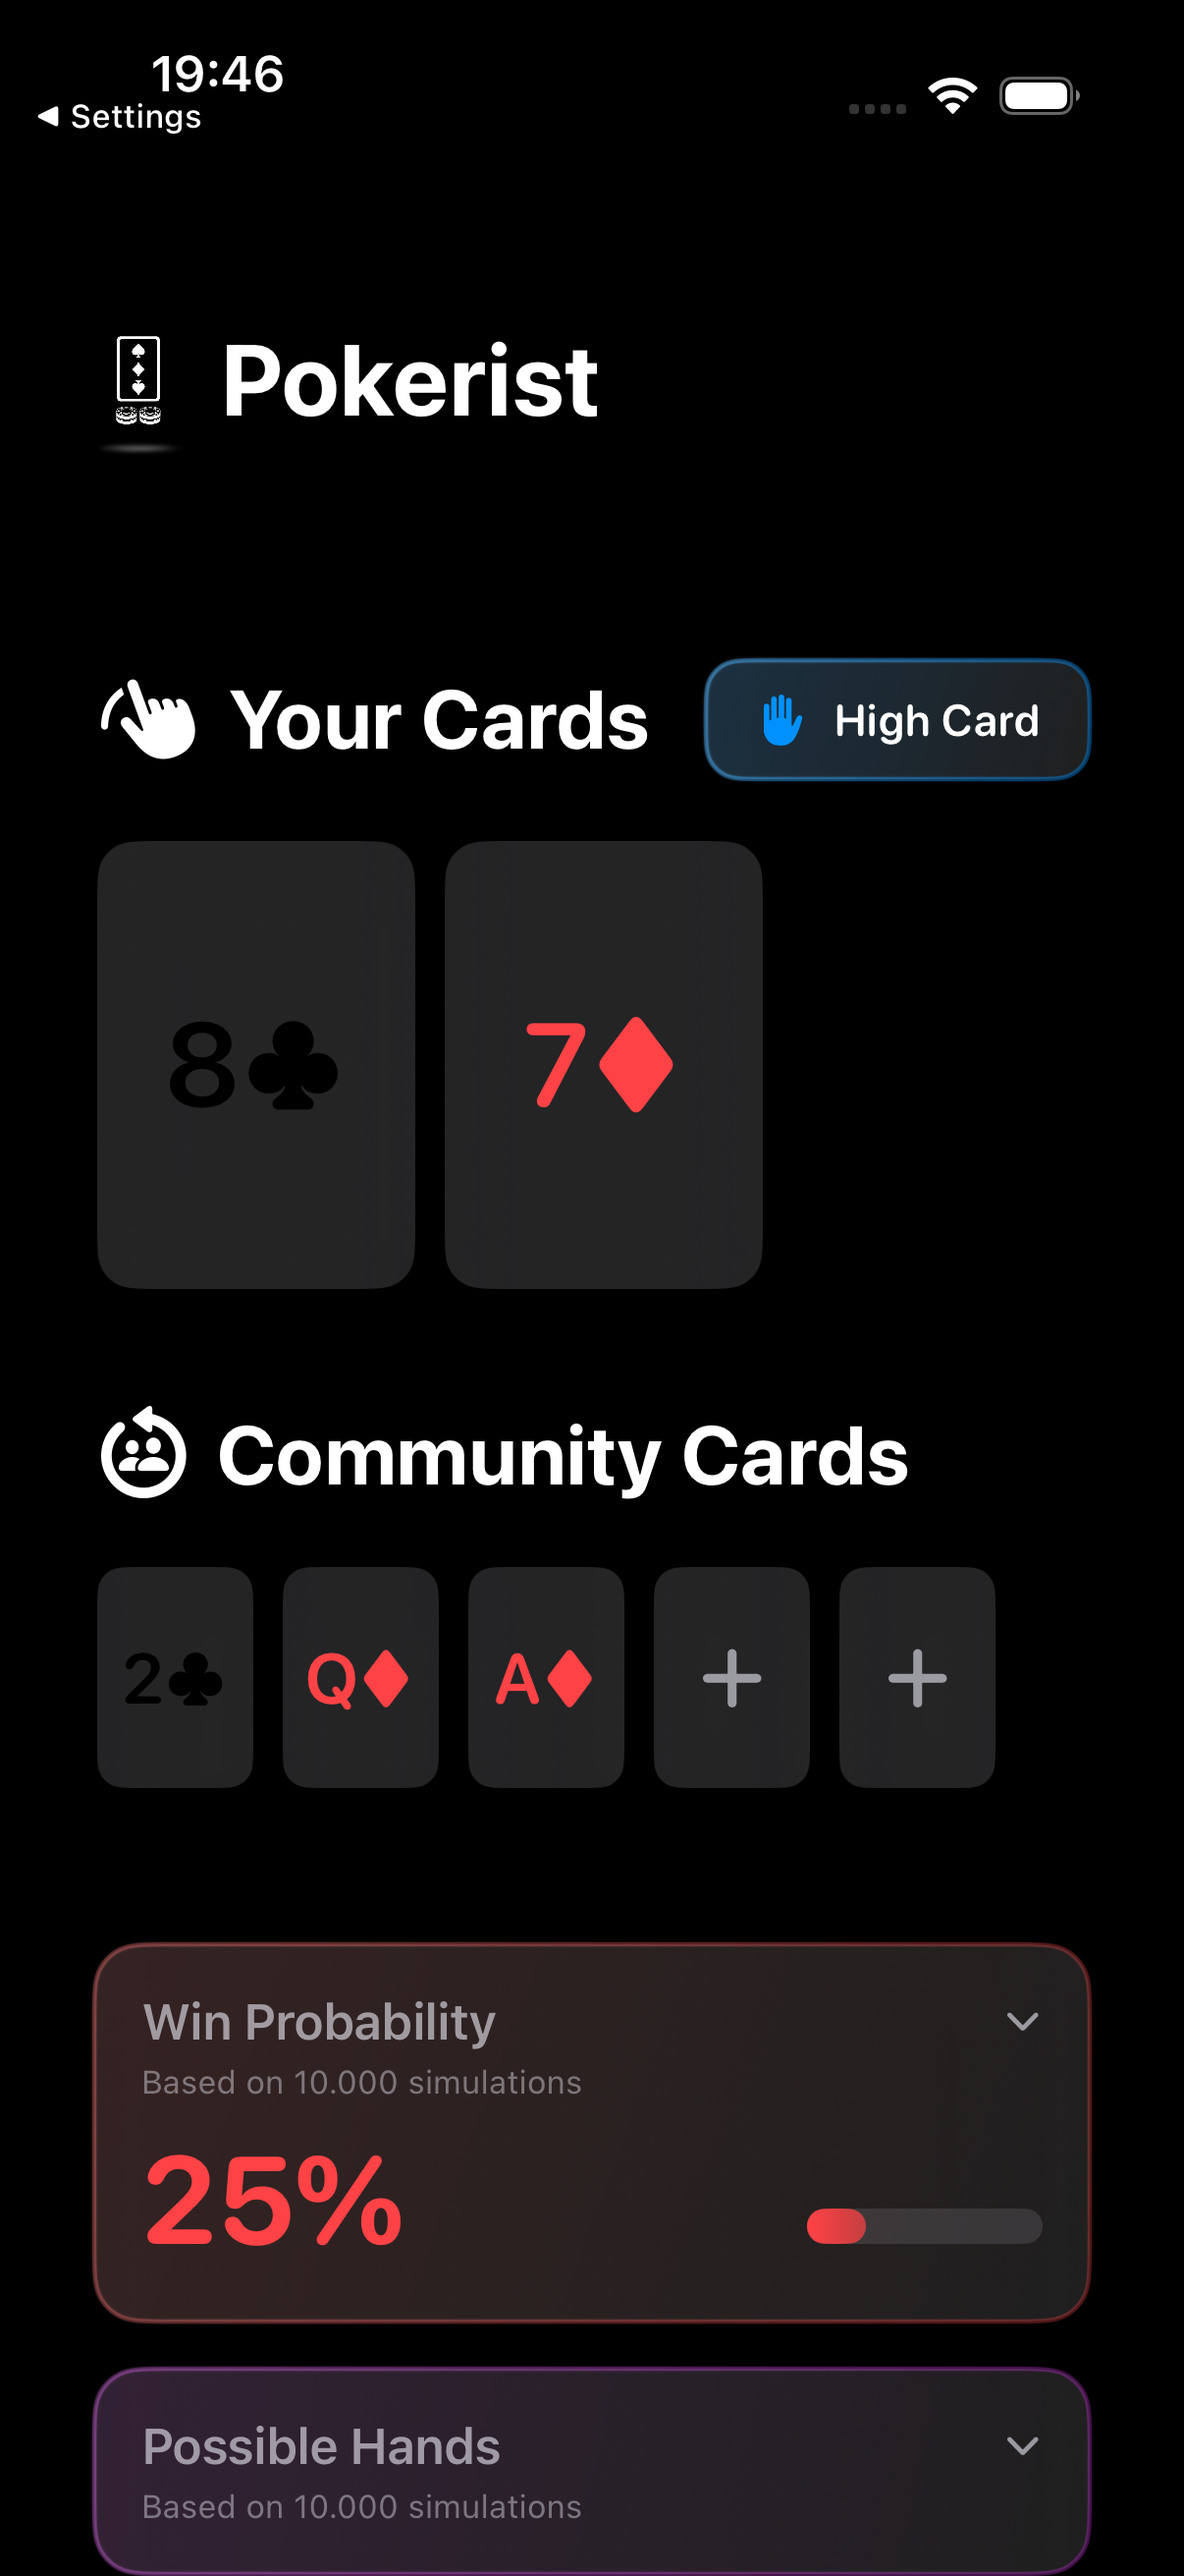
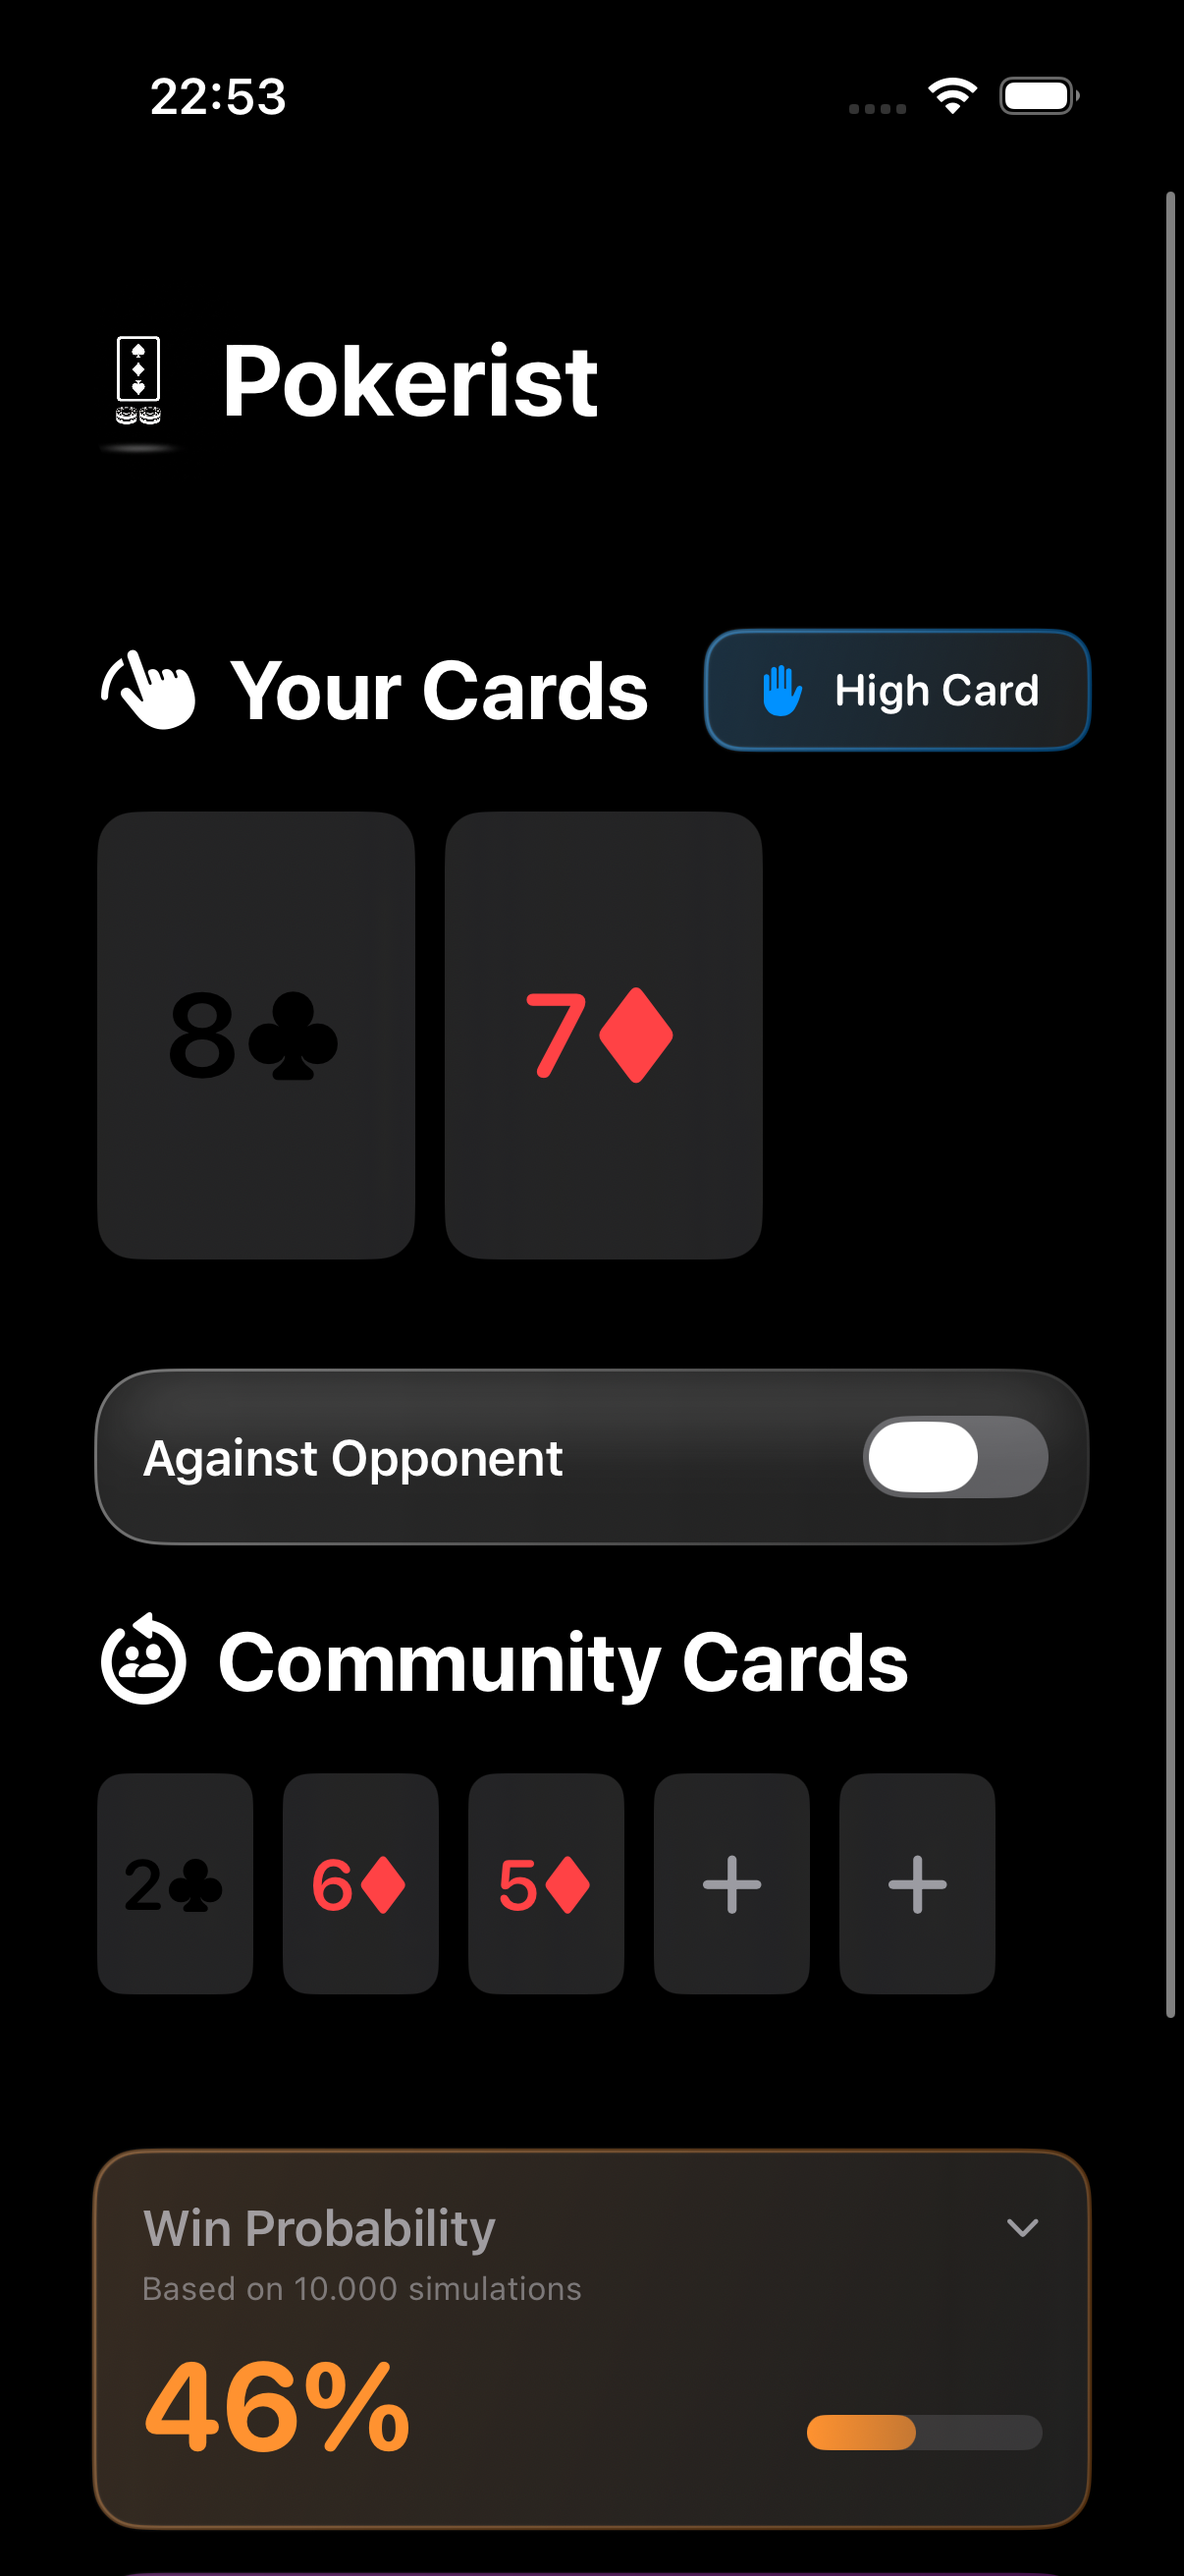
some bug fixes and new photos with new readme file

diff --git a/Pokerist/Models/GameState.swift b/Pokerist/Models/GameState.swift
@@ -22,13 +22,13 @@ import Observation
 @Observable
 class GameState {
     // MARK: - State
-    var playerCards: [PlayingCard] = [.empty, .empty]
-    var communityCards: [PlayingCard] = [.empty, .empty, .empty, .empty, .empty]
+    //var playerCards: [PlayingCard] = [.empty, .empty]
+    //var communityCards: [PlayingCard] = [.empty, .empty, .empty, .empty, .empty]
     var opponentHands: [[PlayingCard]] = []
     
     // Mock hand
-    //var playerCards: [PlayingCard] = [PlayingCard(suit: .club, rank: .eight), PlayingCard(suit: .diamond, rank: .seven)]
-    //var communityCards: [PlayingCard] = [PlayingCard(suit: .club, rank: .two), PlayingCard(suit: .diamond, rank: .six), PlayingCard(suit: .diamond, rank: .five), .empty, .empty]
+    var playerCards: [PlayingCard] = [PlayingCard(suit: .club, rank: .eight), PlayingCard(suit: .diamond, rank: .seven)]
+    var communityCards: [PlayingCard] = [PlayingCard(suit: .club, rank: .two), PlayingCard(suit: .diamond, rank: .six), PlayingCard(suit: .diamond, rank: .five), .empty, .empty]
     
     // MARK: - Computed Properties
     

diff --git a/Pokerist/Views/InformationSection.swift b/Pokerist/Views/InformationSection.swift
@@ -67,11 +67,11 @@ struct InformationSection: View {
                 PlaceholderCard(message: message)
             } else {
                 
-                // Win Probability Section (Expandable only when opponents are selected)
+                // Win Probability Section (Expandable when there are enough cards for analysis)
                 WinProbabilityCard(
                     probability: analysis.winProbability,  // nil when async loading
                     currentHand: analysis.currentHand,
-                    canExpand: hasOpponents && hasValidOpponentCards,  // Only expandable when opponents are selected
+                    canExpand: hasOpponents ? hasValidOpponentCards : analysis.hasMinimumCards,  // Expandable when there are enough cards for meaningful analysis
                     cacheKey: analysis.cacheKey,
                     playerCards: gameState.playerCards,
                     communityCards: gameState.communityCards,

diff --git a/README.md b/README.md
@@ -1,17 +1,71 @@
 # Pokerist 🃏
 
-A beautiful, modern Texas Hold'em poker hand analyzer for iOS built with SwiftUI. Analyze your poker hands, calculate win probabilities, and see what hands can beat you - all with a stunning liquid glass UI design.
+A beautiful, modern Texas Hold'em poker hand analyzer for iOS built with SwiftUI. Analyze your poker hands, calculate win probabilities against up to 6 opponents, and see what hands can beat you - all with a stunning liquid glass UI design.
 
 ## ✨ Features
 
 - **Real-time Hand Analysis**: Instantly evaluates your current poker hand
 - **Win Probability Calculator**: Simulates 10,000 games to calculate your winning chances
-- **Opponent Hand Analysis**: Shows what hands can beat you and their probabilities
-- **Possible Hands Calculator**: Displays your potential draws and their probabilities
+- **Multi-Player Analysis**: Support for up to 6 opponents with detailed win probability calculations
+- **Advanced Opponent Hand Analysis**: Input opponent hands and see comprehensive win probability breakdowns
+- **Smart Possible Hands Calculator**: Displays distinct draw scenarios with accurate card requirements
+- **Intelligent Hand Separation**: Each possible hand type shows separate entries for different draw paths
+- **Accurate Card Requirements**: Shows exact card counts needed (e.g., "8, 8" for trips)
 - **Smart Card Selection**: Prevents selecting duplicate cards across player and community cards
 - **Swipe to Delete**: Intuitive gesture to remove cards
 - **Dark & Light Mode**: Fully supports both appearance modes with adaptive UI
 - **Liquid Glass Design**: Modern, elegant UI with frosted glass effects
+
+## 🎯 Multi-Player Hand Analysis
+
+Pokerist includes advanced **multi-player hand analysis** that supports up to **6 opponents** for comprehensive tournament and cash game analysis.
+
+### How Multi-Player Analysis Works
+
+1. **Add Opponent Hands**: 
+   - Tap the "+" button in the opponent section
+   - Select 2 hole cards for each opponent
+   - **Support for up to 6 opponents** for comprehensive analysis
+
+2. **Real-time Win Probability**:
+   - **Your Win Probability**: Shows your chances of winning against all opponents
+   - **Opponent Win Probabilities**: Individual win chances for each opponent
+   - **Hand Rankings**: See which hand would win in each scenario
+
+3. **Detailed Hand Breakdown**:
+   - **Opponent Hand Types**: Shows what hands each opponent could have
+   - **Example Cards**: Displays specific hole card combinations
+   - **Probability Distribution**: How likely each hand type is
+   - **Beating Analysis**: Which opponent hands can beat you
+
+### Example Scenario
+
+**Your Hand**: A♠ K♠  
+**Community Cards**: 7♣ 8♦ 9♥  
+**Opponent 1**: J♠ 10♣ (Straight draw)  
+**Opponent 2**: 7♠ 7♥ (Three of a kind)  
+
+**Results**:
+- **Your Win Probability**: 35%
+- **Opponent 1 Win**: 45% (needs 6 or J for straight)
+- **Opponent 2 Win**: 20% (needs 7 for four of a kind)
+
+### Advanced Features
+
+- **Monte Carlo Simulation**: 10,000 simulations for accurate probabilities
+- **Multi-Player Support**: Analyze up to 6 opponents simultaneously
+- **Hand Strength Comparison**: Detailed tie-break analysis
+- **Dynamic Updates**: Probabilities update as you add/remove opponents
+- **Visual Hand Display**: See exact cards for each opponent
+- **Probability Meter**: Color-coded win probability indicators
+
+### Use Cases
+
+- **Tournament Analysis**: Compare your hand against up to 6 opponents
+- **Cash Game Strategy**: Understand your position against the field
+- **Multi-Way Pot Analysis**: Analyze complex scenarios with multiple players
+- **Learning Tool**: See how different hands perform in multi-way pots
+- **Decision Making**: Make informed betting decisions based on win probabilities
 
 ## 📱 Screenshots
 
@@ -117,16 +171,53 @@ A beautiful, modern Texas Hold'em poker hand analyzer for iOS built with SwiftUI
   </tr>
 </table>
 
+### Opponent Analysis
+
+<table>
+  <tr>
+    <td align="center">
+      <img src="Photos/Simulator Screenshot - iPhone 17 Pro - Dark Opponent Home.png" width="250" alt="Dark Opponent Home"/>
+      <br/>
+      <b>Opponent Analysis in Dark Mode</b>
+      <br/>
+      Multi-player hand analysis
+    </td>
+    <td align="center">
+      <img src="Photos/Simulator Screenshot - iPhone 17 Pro - Light Opponent Home.png" width="250" alt="Light Opponent Home"/>
+      <br/>
+      <b>Opponent Analysis in Light Mode</b>
+      <br/>
+      Allows up to 6 opponents
+    </td>
+    <td align="center">
+      <img src="Photos/Simulator Screenshot - iPhone 17 Pro - Dark Opponent Info.png" width="250" alt="Dark Opponent Analysis View"/>
+      <br/>
+      <b>Analysis Information</b>
+      <br/>
+      Gives specific win probabilities for each player
+    </td>
+  </tr>
+</table>
+
 ## 🎮 How to Use
 
+### Basic Hand Analysis
 1. **Select Your Cards**: Tap the "+" buttons to select your two hole cards
 2. **Add Community Cards**: Add the flop, turn, and river as they're revealed
 3. **View Analysis**: See your current hand, win probability, and detailed statistics
 4. **Expand Details**: Tap on analysis cards to see:
    - Opponent hands that can beat you
-   - Your possible improved hands
+   - Your possible improved hands with distinct draw scenarios
+   - Exact card requirements for each hand type
    - Example cards for each scenario
 5. **Delete Cards**: Swipe up on any card to remove it
+
+### Multi-Player Analysis (Up to 6 Opponents)
+1. **Add Opponents**: Tap the "+" button in the opponent section
+2. **Select Opponent Cards**: Choose 2 hole cards for each opponent (up to 6 opponents)
+3. **View Win Probabilities**: See your chances against each opponent
+4. **Analyze Hand Strength**: Compare your hand to opponent possibilities
+5. **Make Strategic Decisions**: Use probability data for betting decisions
 
 ## 🏗 Architecture
 
@@ -180,8 +271,9 @@ The analyzer evaluates all standard poker hands:
 9. **One Pair**
 10. **High Card**
 
-## 🎯 Win Probability Algorithm
+## 🎯 Advanced Analysis Algorithms
 
+### Win Probability Calculation
 The win probability is calculated using **Monte Carlo simulation**:
 
 - Simulates **10,000 random games** for statistical accuracy
@@ -189,6 +281,35 @@ The win probability is calculated using **Monte Carlo simulation**:
 - Deals remaining community cards randomly
 - Evaluates final hands to determine winners
 - Runs asynchronously to keep UI responsive
+
+### Smart Possible Hands Analysis
+The possible hands calculator uses **intelligent separation logic**:
+
+- **Distinct Draw Scenarios**: Each unique draw path gets its own entry
+- **Accurate Card Requirements**: Shows exact cards needed (e.g., "8, 8" for trips)
+- **Separate Straight Draws**: Different straight draws (needing 4 vs 9) appear as separate entries
+- **Hand-Specific Logic**: Different hand types use appropriate card counting
+- **Probability Distribution**: Evenly distributes probability among distinct outcomes
+
+### Example: Smart Hand Separation
+
+**Before (Combined):**
+```
+Straight: Need [4, 9] - 26% probability
+```
+
+**After (Separated):**
+```
+Straight: Need [4] - 13% probability
+Straight: Need [9] - 13% probability
+```
+
+**For Three of a Kind:**
+```
+Three of a Kind: Need [8, 8] - 12% probability
+```
+
+This ensures each distinct draw scenario is clearly displayed as a separate possible hand entry.
 
 ## 🎨 Design Philosophy
 
@@ -210,12 +331,16 @@ The win probability is calculated using **Monte Carlo simulation**:
 - **Result Caching**: Cached results based on card combinations
 - **Task Cancellation**: Automatic cleanup when cards change
 - **Lazy Loading**: Analysis only loads when needed
+- **Smart Hand Separation**: Efficient grouping of distinct draw scenarios
+- **Optimized Probability Distribution**: Even division among separate outcomes
 
 ### UI/UX Features
 - **Expandable Cards**: Tap to reveal detailed information
 - **Loading States**: Smooth loading animations
 - **Empty States**: Helpful messages when no data available
 - **Error Handling**: Graceful error states with retry options
+- **Clear Hand Separation**: Distinct entries for different draw scenarios
+- **Intuitive Card Requirements**: Clear display of exact cards needed
 
 ## 📋 Requirements
 
